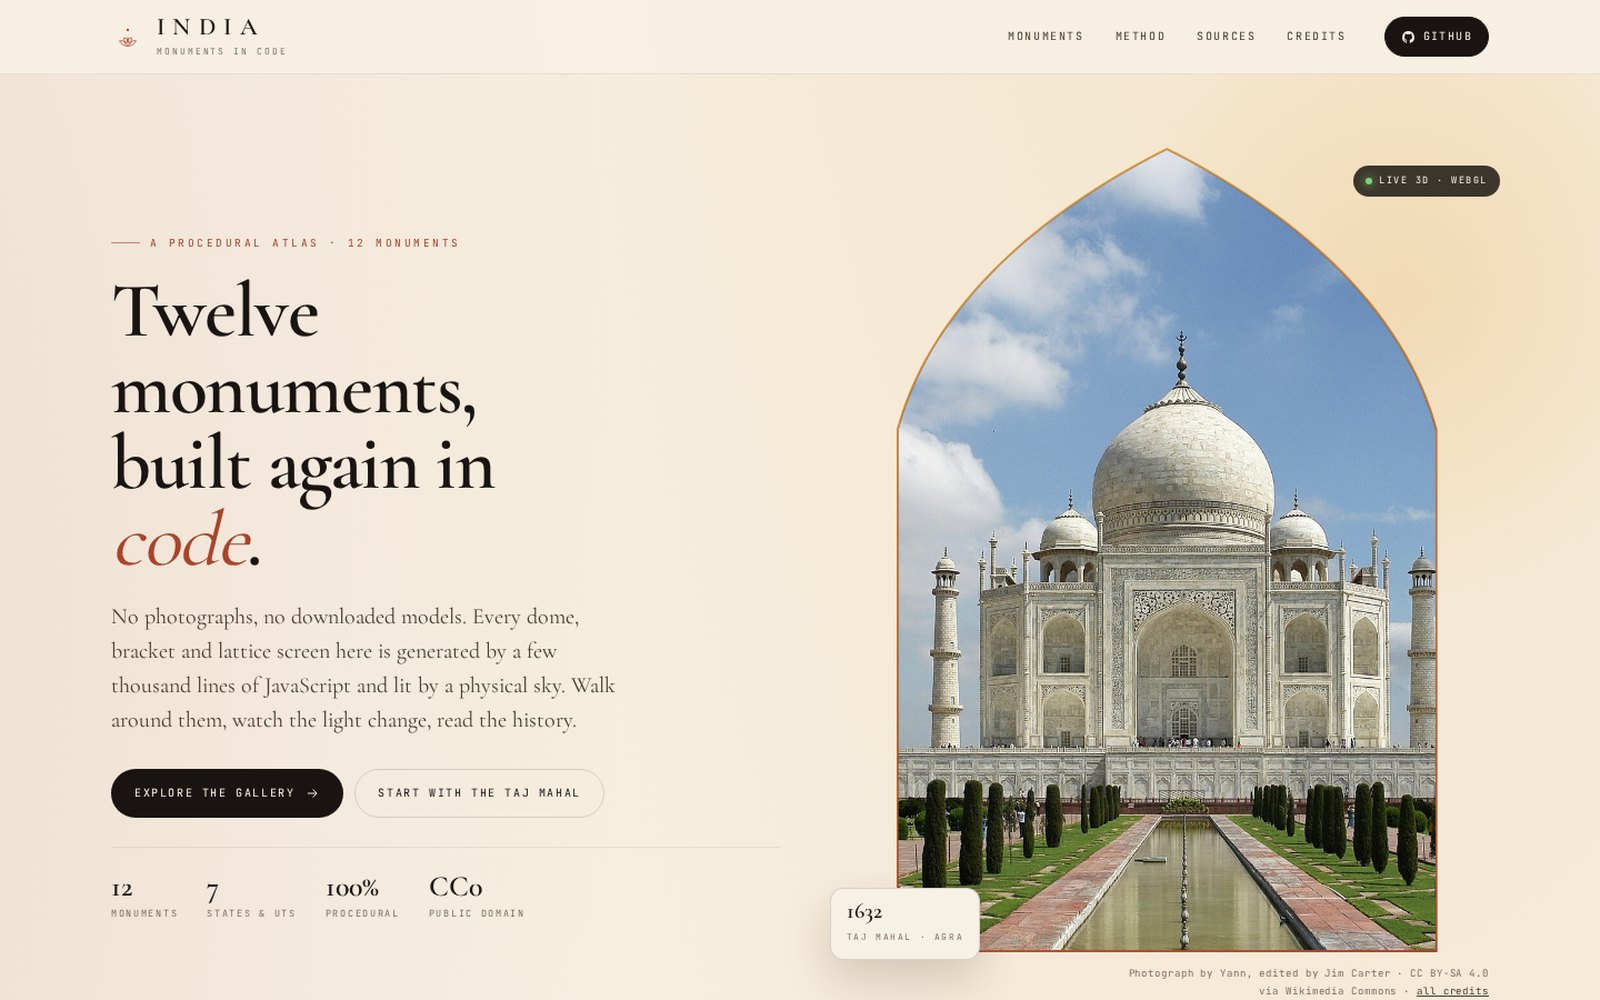
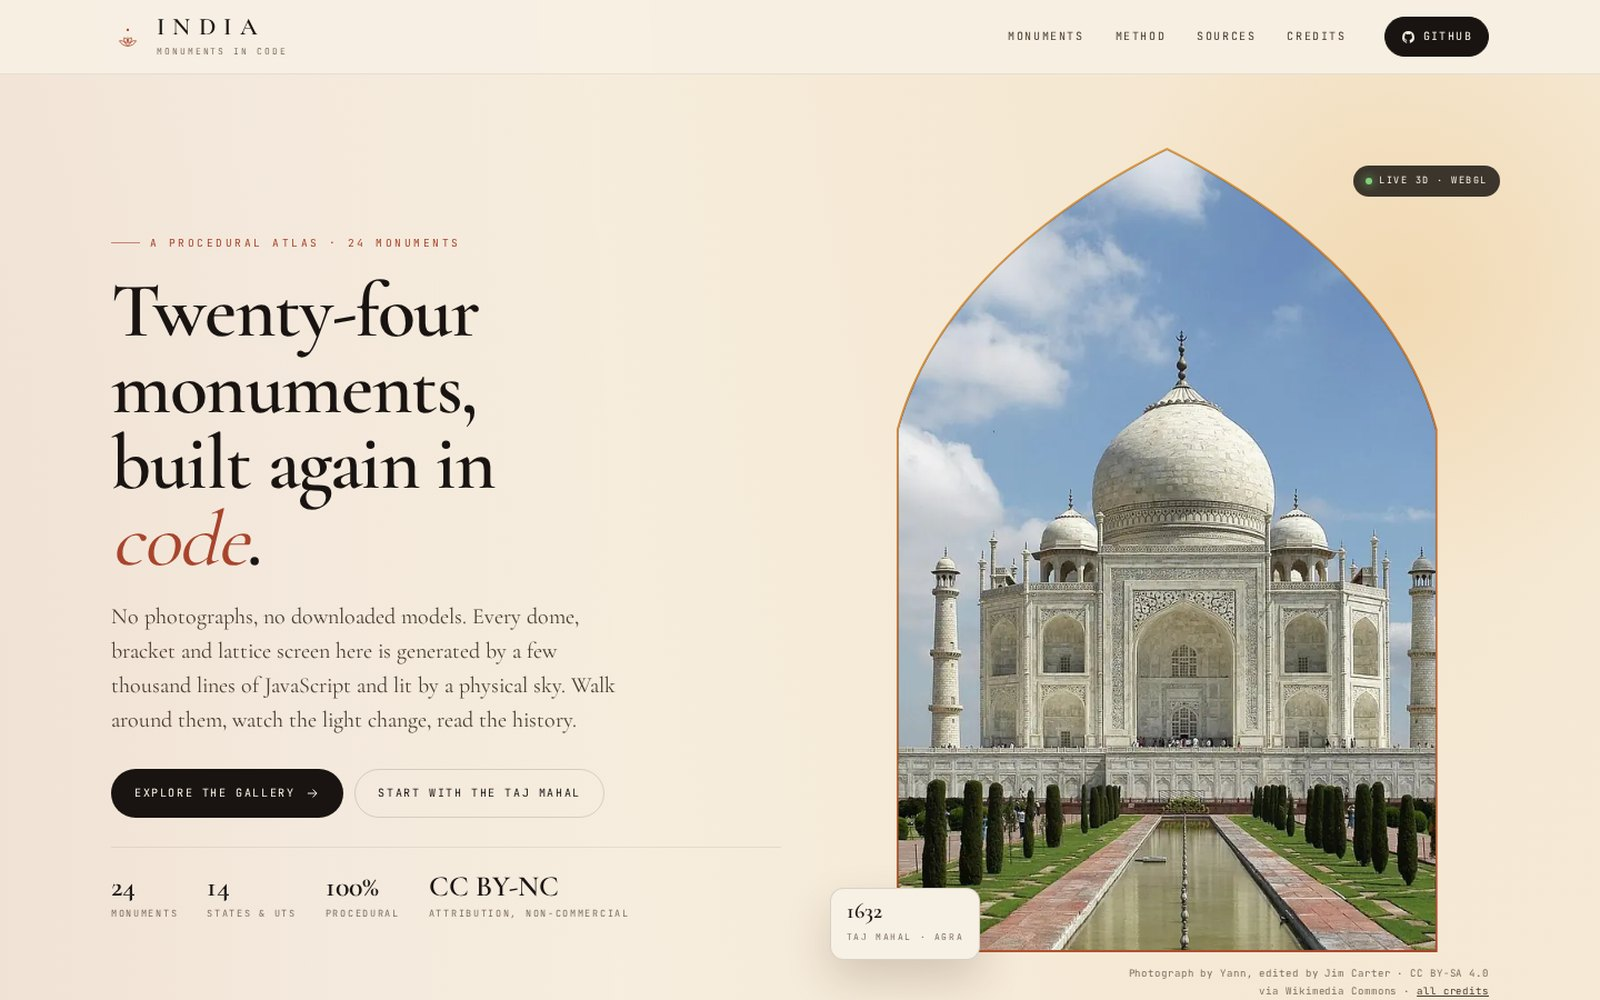
README to 24, plus robots, sitemap, 404 and a sturdier render job
- README monument table regenerated from the data (24 rows, was 18)
- tools/build_extras.py generates robots.txt, sitemap.xml (26 urls) and a
  404 page in the site's own type and palette
- CI render job resolves the Playwright Chromium path into GITHUB_ENV
  instead of a shell substitution
- docs/preview.jpg regenerated from the 24-card landing page

diff --git a/404.html b/404.html
@@ -1,0 +1,20 @@
+<!DOCTYPE html>
+<html lang="en">
+<head>
+<meta charset="utf-8">
+<meta name="viewport" content="width=device-width, initial-scale=1">
+<title>Not found — INDIA</title>
+<meta name="robots" content="noindex">
+<link rel="icon" href="/INDIA/assets/img/favicon.svg" type="image/svg+xml">
+<link rel="stylesheet" href="/INDIA/assets/css/fonts.css">
+<link rel="stylesheet" href="/INDIA/assets/css/site.css">
+</head>
+<body>
+<main class="wrap" style="min-height:70vh;display:flex;flex-direction:column;justify-content:center;padding-top:12vh">
+  <p class="eyebrow">404</p>
+  <h1 style="font-size:clamp(34px,6vw,68px);margin:10px 0 14px">This page has not been built.</h1>
+  <p style="max-width:52ch;color:var(--ink-2)">The atlas holds twenty-four monuments. Whatever you were looking for is not one of them, or the address has a typo.</p>
+  <p style="margin-top:26px"><a href="/INDIA/" style="display:inline-block;padding:13px 22px;border-radius:999px;background:var(--ink,#191411);color:var(--paper,#f7f0e4);text-decoration:none;font-size:11px;letter-spacing:.14em;text-transform:uppercase">Back to the atlas</a></p>
+</main>
+</body>
+</html>

diff --git a/tools/build_extras.py b/tools/build_extras.py
@@ -1,0 +1,43 @@
+#!/usr/bin/env python3
+"""Generate robots.txt, sitemap.xml and 404.html from data/monuments.json."""
+import json, os, datetime
+
+ROOT = os.path.dirname(os.path.dirname(os.path.abspath(__file__)))
+BASE = 'https://drsamonline.github.io/INDIA'
+data = json.load(open(os.path.join(ROOT, 'data', 'monuments.json'), encoding='utf-8'))
+today = datetime.date.today().isoformat()
+
+open(os.path.join(ROOT, 'robots.txt'), 'w').write(
+    "User-agent: *\nAllow: /\n\nSitemap: %s/sitemap.xml\n" % BASE)
+
+urls = ['', 'credits.html'] + ['monuments/%s.html' % m['id'] for m in data]
+body = "\n".join(
+    "  <url><loc>%s/%s</loc><lastmod>%s</lastmod><changefreq>monthly</changefreq>"
+    "<priority>%s</priority></url>" % (BASE, u, today, '1.0' if u == '' else '0.8')
+    for u in urls)
+open(os.path.join(ROOT, 'sitemap.xml'), 'w').write(
+    '<?xml version="1.0" encoding="UTF-8"?>\n'
+    '<urlset xmlns="http://www.sitemaps.org/schemas/sitemap/0.9">\n%s\n</urlset>\n' % body)
+
+open(os.path.join(ROOT, '404.html'), 'w', encoding='utf-8').write("""<!DOCTYPE html>
+<html lang="en">
+<head>
+<meta charset="utf-8">
+<meta name="viewport" content="width=device-width, initial-scale=1">
+<title>Not found — INDIA</title>
+<meta name="robots" content="noindex">
+<link rel="icon" href="/INDIA/assets/img/favicon.svg" type="image/svg+xml">
+<link rel="stylesheet" href="/INDIA/assets/css/fonts.css">
+<link rel="stylesheet" href="/INDIA/assets/css/site.css">
+</head>
+<body>
+<main class="wrap" style="min-height:70vh;display:flex;flex-direction:column;justify-content:center;padding-top:12vh">
+  <p class="eyebrow">404</p>
+  <h1 style="font-size:clamp(34px,6vw,68px);margin:10px 0 14px">This page has not been built.</h1>
+  <p style="max-width:52ch;color:var(--ink-2)">The atlas holds twenty-four monuments. Whatever you were looking for is not one of them, or the address has a typo.</p>
+  <p style="margin-top:26px"><a href="/INDIA/" style="display:inline-block;padding:13px 22px;border-radius:999px;background:var(--ink,#191411);color:var(--paper,#f7f0e4);text-decoration:none;font-size:11px;letter-spacing:.14em;text-transform:uppercase">Back to the atlas</a></p>
+</main>
+</body>
+</html>
+""")
+print('robots.txt, sitemap.xml, 404.html written — %d urls' % len(urls))

diff --git a/README.md b/README.md
@@ -1,10 +1,10 @@
 # INDIA — monuments in code
 
-**Eighteen Indian monuments, rebuilt as live 3D miniatures in the browser.** No photographs in the models, no downloaded meshes, no build step: every dome, bracket and lattice screen is generated from code with [three.js](https://threejs.org), lit by a physical sky, and paired with the history behind it.
+**Twenty-four Indian monuments, rebuilt as live 3D miniatures in the browser.** No photographs in the models, no downloaded meshes, no build step: every dome, bracket and lattice screen is generated from code with [three.js](https://threejs.org), lit by a physical sky, and paired with the history behind it.
 
 [![Licence: CC BY-NC 4.0](https://img.shields.io/badge/licence-CC%20BY--NC%204.0-e8873a?style=flat-square)](LICENSE)
 [![Made with three.js](https://img.shields.io/badge/three.js-r169-000000?style=flat-square&logo=three.js&logoColor=white)](https://threejs.org)
-[![Monuments](https://img.shields.io/badge/monuments-18-c1440e?style=flat-square)](#the-monuments)
+[![Monuments](https://img.shields.io/badge/monuments-24-c1440e?style=flat-square)](#the-monuments)
 [![No build step](https://img.shields.io/badge/build-none%20%C2%B7%20static%20files-f0a868?style=flat-square)](#run-it-locally)
 [![WebGL](https://img.shields.io/badge/WebGL-required-1b2740?style=flat-square)](#browser-support)
 
@@ -17,25 +17,31 @@
 ## The monuments
 
 | # | Monument | Place | Period | Page |
-|---|----------|-------|--------|------|
-| 01 | Taj Mahal | Agra, Uttar Pradesh | 1632–1653 | [open](monuments/taj-mahal.html) |
-| 02 | Qutb Minar | Mehrauli, Delhi | 1199–1220 | [open](monuments/qutub-minar.html) |
-| 03 | Hawa Mahal | Jaipur, Rajasthan | 1799 | [open](monuments/hawa-mahal.html) |
-| 04 | Charminar | Hyderabad, Telangana | 1591 | [open](monuments/charminar.html) |
-| 05 | Gateway of India | Mumbai, Maharashtra | 1913–1924 | [open](monuments/gateway-of-india.html) |
-| 06 | India Gate | New Delhi | 1921–1931 | [open](monuments/india-gate.html) |
-| 07 | Mysore Palace | Mysuru, Karnataka | 1897–1912 | [open](monuments/mysore-palace.html) |
-| 08 | Golden Temple | Amritsar, Punjab | 1577 · gilded 1830 | [open](monuments/golden-temple.html) |
-| 09 | Konark Sun Temple | Konark, Odisha | c. 1250 | [open](monuments/konark-sun-temple.html) |
-| 10 | Sanchi Stupa | Sanchi, Madhya Pradesh | 3rd century BCE | [open](monuments/sanchi-stupa.html) |
-| 11 | Victoria Memorial | Kolkata, West Bengal | 1906–1921 | [open](monuments/victoria-memorial.html) |
-| 12 | Meenakshi Temple | Madurai, Tamil Nadu | 12th–17th century | [open](monuments/meenakshi-temple.html) |
-| 13 | Lotus Temple | New Delhi | 1980–1986 | [open](monuments/lotus-temple.html) |
-| 14 | Shore Temple | Mahabalipuram, Tamil Nadu | c. 725 CE | [open](monuments/shore-temple.html) |
-| 15 | Rani ki Vav | Patan, Gujarat | 1063 | [open](monuments/rani-ki-vav.html) |
-| 16 | Amber Fort | Amer, Rajasthan | from 1592 | [open](monuments/amber-fort.html) |
-| 17 | CSMT | Mumbai, Maharashtra | 1878–1888 | [open](monuments/csmt-mumbai.html) |
-| 18 | Mahabodhi Temple | Bodh Gaya, Bihar | 3rd c. BCE onward | [open](monuments/mahabodhi-temple.html) |
+|---|---|---|---|---|
+| 1 | Taj Mahal | Agra, Uttar Pradesh | Mughal · 1632–1653 | [open](monuments/taj-mahal.html) |
+| 2 | Qutb Minar | Mehrauli, Delhi, Delhi | Delhi Sultanate · 1199–1220 | [open](monuments/qutub-minar.html) |
+| 3 | Hawa Mahal | Jaipur, Rajasthan | Rajput · 1799 | [open](monuments/hawa-mahal.html) |
+| 4 | Charminar | Hyderabad, Telangana | Qutb Shahi · 1591 | [open](monuments/charminar.html) |
+| 5 | Gateway of India | Mumbai, Maharashtra | British Raj · 1913–1924 | [open](monuments/gateway-of-india.html) |
+| 6 | India Gate | New Delhi, Delhi | British Raj · 1921–1931 | [open](monuments/india-gate.html) |
+| 7 | Mysore Palace | Mysuru, Karnataka | Wadiyar dynasty · 1897–1912 | [open](monuments/mysore-palace.html) |
+| 8 | Golden Temple | Amritsar, Punjab | Sikh · founded 1577, gilded 1830 | [open](monuments/golden-temple.html) |
+| 9 | Konark Sun Temple | Konark, Odisha | Eastern Ganga · c. 1250 | [open](monuments/konark-sun-temple.html) |
+| 10 | Sanchi Stupa | Sanchi, Madhya Pradesh | Mauryan · 3rd century BCE | [open](monuments/sanchi-stupa.html) |
+| 11 | Victoria Memorial | Kolkata, West Bengal | British Raj · 1906–1921 | [open](monuments/victoria-memorial.html) |
+| 12 | Meenakshi Temple | Madurai, Tamil Nadu | Pandya and Vijayanagara · 12th–17th c. | [open](monuments/meenakshi-temple.html) |
+| 13 | Lotus Temple | New Delhi, Delhi | Bahá’í · 1980–1986 | [open](monuments/lotus-temple.html) |
+| 14 | Shore Temple | Mahabalipuram, Tamil Nadu | Pallava · c. 725 CE | [open](monuments/shore-temple.html) |
+| 15 | Rani ki Vav | Patan, Gujarat | Solanki · 1063 | [open](monuments/rani-ki-vav.html) |
+| 16 | Amber Fort | Amer, Jaipur, Rajasthan | Kachwaha Rajput · from 1592 | [open](monuments/amber-fort.html) |
+| 17 | CSMT, Mumbai | Mumbai, Maharashtra | British Raj · 1878–1888 | [open](monuments/csmt-mumbai.html) |
+| 18 | Mahabodhi Temple | Bodh Gaya, Bihar | Mauryan to Gupta · 3rd c. BCE – 6th c. CE | [open](monuments/mahabodhi-temple.html) |
+| 19 | Statue of Unity | Kevadia, Gujarat | Modern · 2013–2018 | [open](monuments/statue-of-unity.html) |
+| 20 | Kandariya Mahadeva | Khajuraho, Madhya Pradesh | Chandela · c. 1030 | [open](monuments/kandariya-mahadeva.html) |
+| 21 | Basilica of Bom Jesus | Old Goa, Goa | Portuguese · 1594–1605 | [open](monuments/basilica-bom-jesus.html) |
+| 22 | Mehrangarh | Jodhpur, Rajasthan | Rathore Rajput · from 1459 | [open](monuments/mehrangarh-fort.html) |
+| 23 | Jantar Mantar | Jaipur, Rajasthan | Rajput · 1728–1734 | [open](monuments/jantar-mantar.html) |
+| 24 | Somnath Temple | Prabhas Patan, Gujarat | Rebuilt · 1951 | [open](monuments/somnath-temple.html) |
 
 Ten of them are UNESCO World Heritage Sites; two more are on the tentative list.
 
